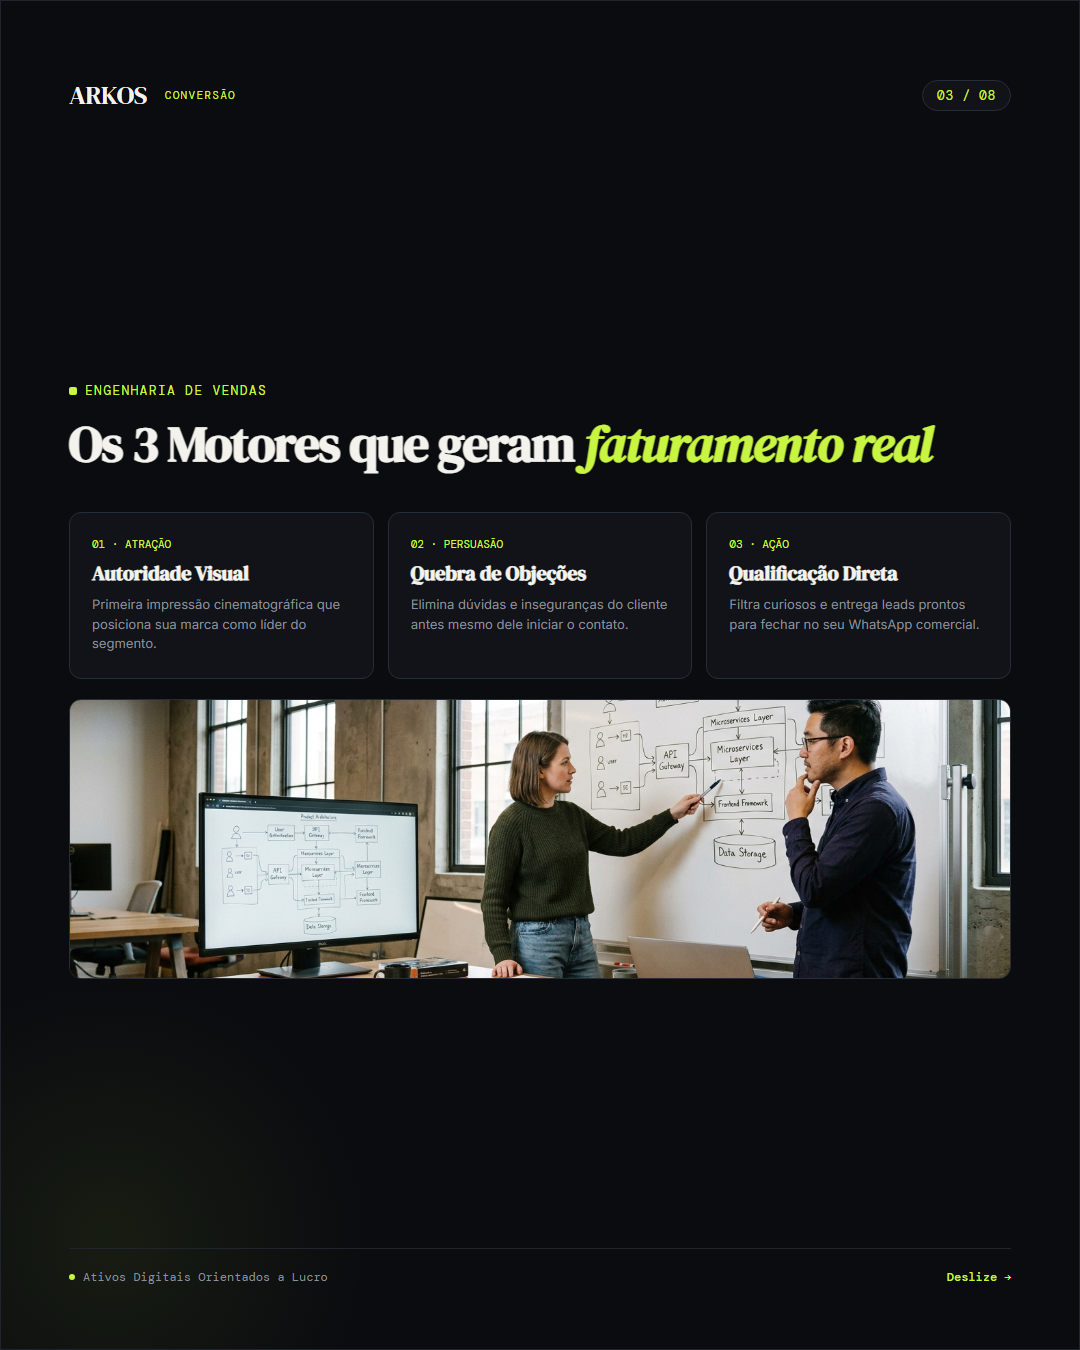
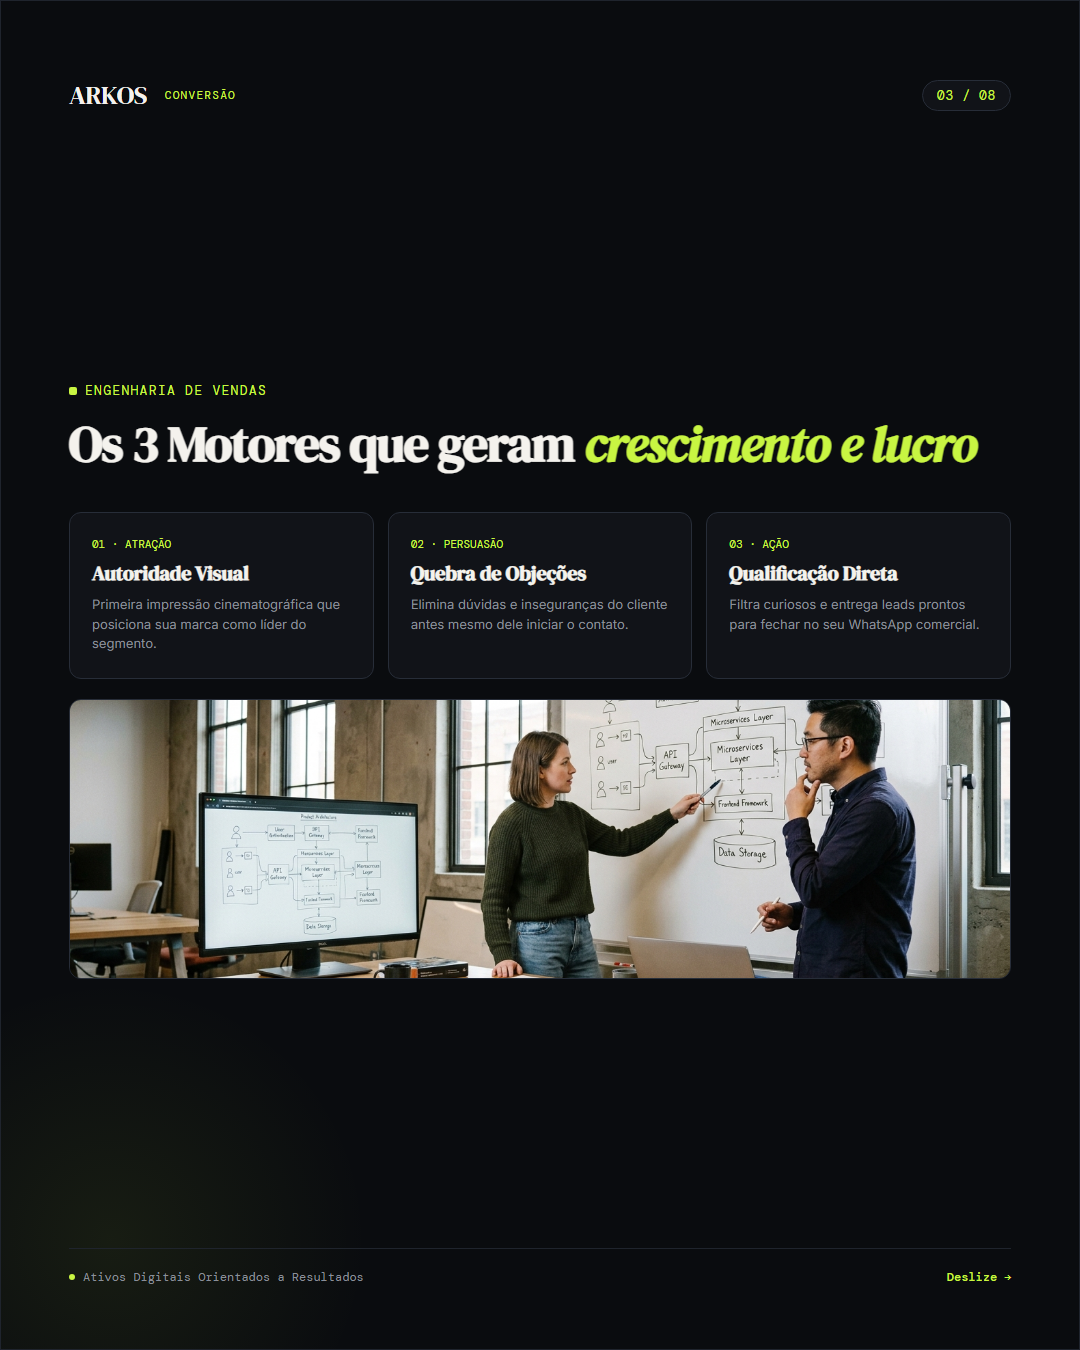
fix(redes): refinar copy executiva do Card 4 substituindo expressao informal por posicionamento de elite

Changed region(s): [[0.55, 0.3111, 0.9167, 0.3422], [0.5194, 0.3422, 0.55, 0.3733], [0.3056, 0.9333, 0.3361, 0.9644]]

diff --git a/redes/linkedin/cards.html b/redes/linkedin/cards.html
@@ -402,7 +402,7 @@
     </div>
   </div>
 
-  <!-- CARD 3: OS 3 MOTORES DE LUCRO DE UMA PRESENÇA DIGITAL -->
+  <!-- CARD 3: OS 3 MOTORES DE CRESCIMENTO -->
   <div class="card" id="card-3">
     <div class="glow-bottom-left"></div>
     <div class="card-header">
@@ -416,7 +416,7 @@
     <div class="card-content">
       <div class="kicker">Engenharia de Vendas</div>
       <h2 class="title-large" style="font-size: 50px;">
-        Os 3 Motores que geram <span>faturamento real</span>
+        Os 3 Motores que geram <span>crescimento e lucro</span>
       </h2>
 
       <div class="features-grid" style="grid-template-columns: 1fr 1fr 1fr; gap: 14px; margin-top: 20px;">
@@ -445,13 +445,13 @@
     <div class="card-footer">
       <div class="footer-left">
         <div class="footer-dot"></div>
-        <span>Ativos Digitais Orientados a Lucro</span>
+        <span>Ativos Digitais Orientados a Resultados</span>
       </div>
       <div class="swipe-hint">Deslize →</div>
     </div>
   </div>
 
-  <!-- CARD 4: DESIGN COM FUNÇÃO COMERCIAL -->
+  <!-- CARD 4: DESIGN ESTRATÉGICO DE ELITE (SEM FRASES COLOQUIAIS) -->
   <div class="card" id="card-4">
     <div class="glow-top-right"></div>
     <div class="card-header">
@@ -464,11 +464,11 @@
 
     <div class="card-content">
       <div class="kicker">Design com Função</div>
-      <h2 class="title-large" style="font-size: 52px;">
-        Beleza sem estratégia <span>não paga contas</span>.
+      <h2 class="title-large" style="font-size: 50px;">
+        Estética sem estratégia é apenas <span>decoração</span>.
       </h2>
       <p class="subtitle" style="font-size: 19px;">
-        Grandes marcas globais não constroem sites para serem apenas 'bonitos'. Elas desenham jornadas onde cada manchete, imagem e chamada para ação conduz o visitante à decisão de compra.
+        Grandes marcas globais desenham experiências onde cada elemento visual, manchete e chamado para ação existe para conduzir o visitante à decisão de compra com absoluta clareza e segurança.
       </p>
 
       <div class="image-preview-card" style="height: 400px;">
